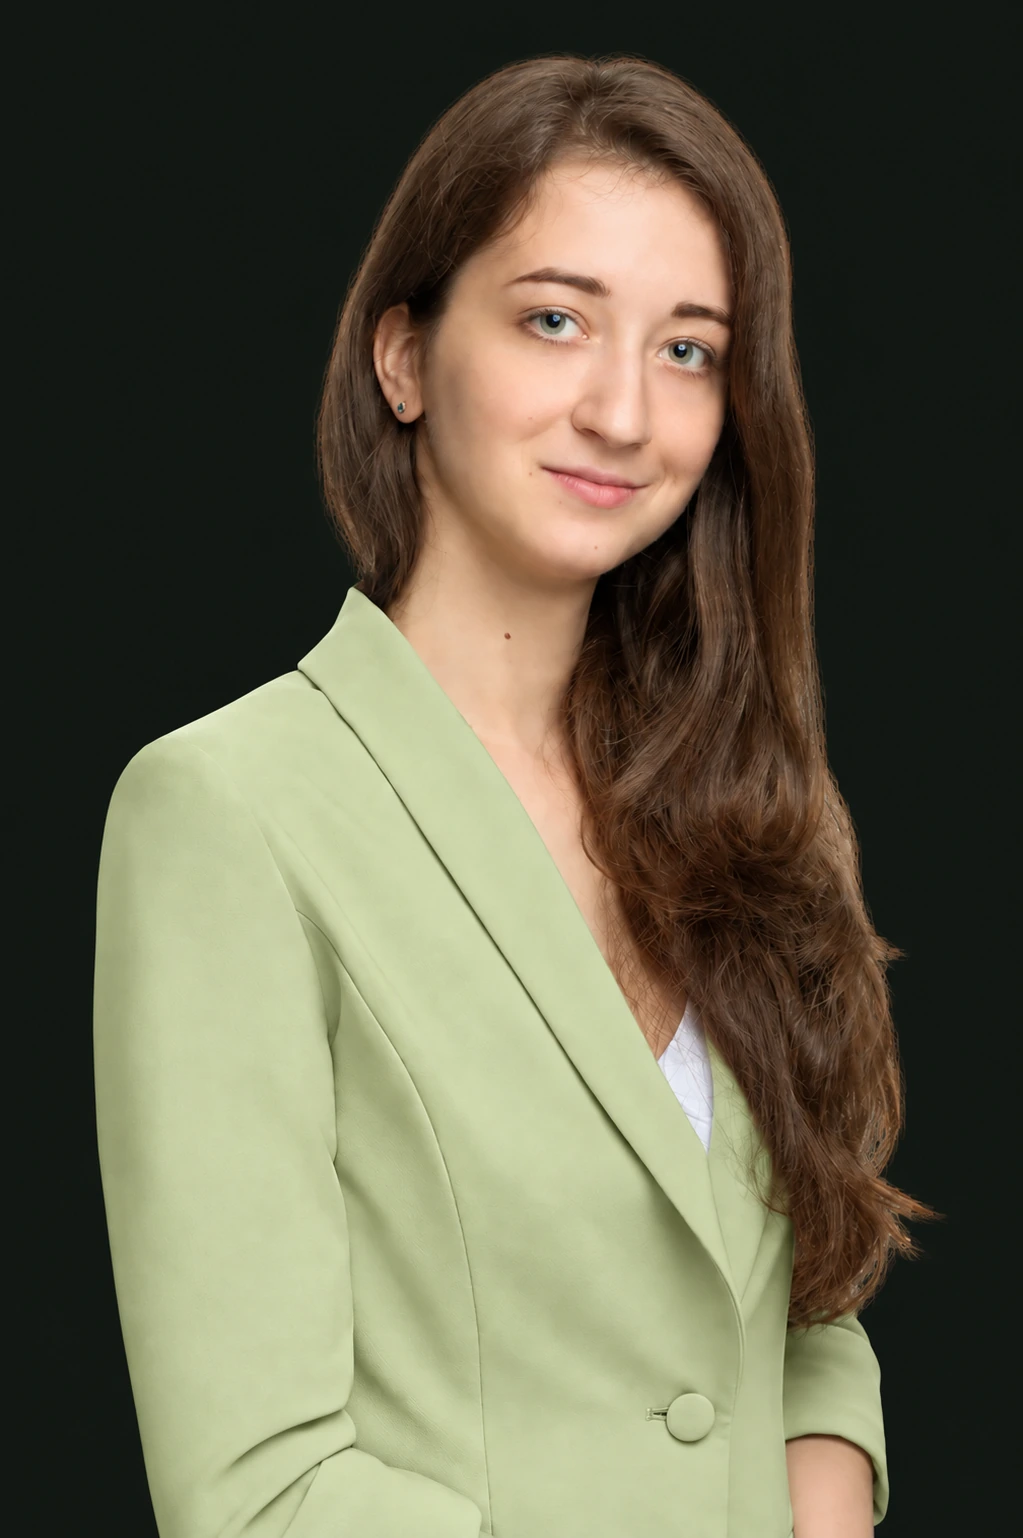
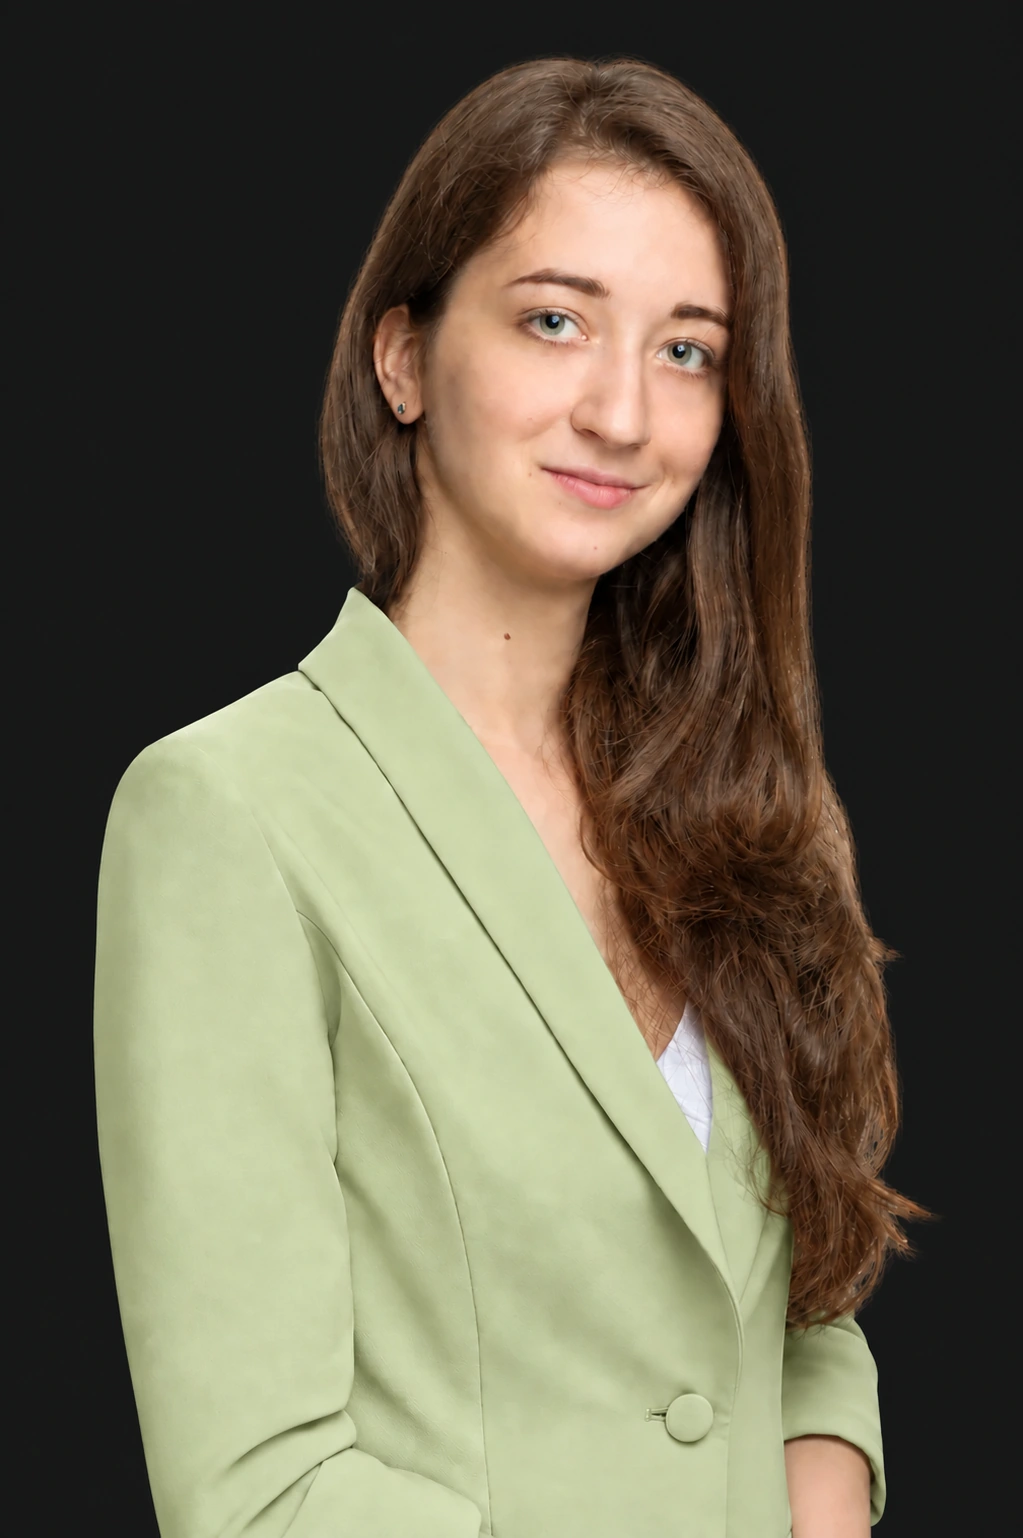
Fix portrait background, gallery controls and contact alignment

diff --git a/assets/styles.css b/assets/styles.css
@@ -226,5 +226,26 @@ dialog::backdrop{background:var(--surface)}body.modal-open{overflow:hidden}
   .contact-links{margin:0}
   .contact-links a{min-height:0;line-height:1.6}
 }
+/* Final component invariants: no independent breakpoint overrides below these. */
+.portrait-wrap::before{transform:scale(.85);transform-origin:center}
+.portrait{object-fit:contain;mix-blend-mode:lighten;mask-image:linear-gradient(to right,transparent,black 10%,black 90%,transparent),linear-gradient(to bottom,transparent,black 5%,black 85%,transparent);mask-composite:intersect}
+.portrait-wrap{aspect-ratio:1023/1538;max-width:360px}
+.tabs,.thumbs{scrollbar-width:none;-ms-overflow-style:none}
+.tabs::-webkit-scrollbar,.thumbs::-webkit-scrollbar{display:none}
+.stage .round{width:44px;height:44px;padding:0;aspect-ratio:1;border-radius:50%;border:1px solid var(--accent)}
+.contact-grid{grid-template-columns:minmax(0,1fr) minmax(0,3fr) minmax(0,1fr)}
+.contact-note{justify-self:start}.contact-note-end{justify-self:end;text-align:right;border-left:0;border-right:1px solid var(--line);padding-left:0;padding-right:20px}
+dialog[open]{display:grid;grid-template-rows:76px minmax(0,1fr) 82px;inset:0;margin:0;width:100%;height:100dvh;overflow:hidden}
+.modal-image{height:100%;min-height:0;width:100%;object-fit:contain;align-self:stretch}.modal-top,.modal-controls{height:auto}
+@media(max-width:760px){
+  .contact-grid{display:flex;flex-direction:column;align-items:stretch;padding-block:32px;gap:32px}
+  .contact-note{align-self:center;line-height:1;margin:0}.contact-note-end{display:none}
+  .contact-main,.contact-main>div:first-child{display:contents}.contact h2{margin:0;line-height:1.2}
+  .contact-links{line-height:1;align-items:center}.contact-links a{line-height:1;margin:0;min-height:0;padding:0;border:0}
+}
+@media(max-width:600px){
+  .stage{grid-template-columns:44px minmax(0,1fr) 44px;gap:6px}
+  .portrait-wrap{max-width:300px}.portrait-wrap::before{inset:0;transform:scale(.85)}
+}
 @media(prefers-reduced-motion:reduce){html{scroll-behavior:auto}*,*::before,*::after{animation:none!important;transition:none!important}.scroll-reveal{opacity:1;transform:none}}
 @media print{.scroll-reveal{opacity:1;transform:none}}

diff --git a/assets/app.js b/assets/app.js
@@ -42,6 +42,8 @@ function fitGallery(){
   section.style.setProperty('--gallery-width',(height*16/9+sideSpace)+'px')
 }
 window.addEventListener('resize',fitGallery);
+window.addEventListener('load',fitGallery);
+document.fonts.ready.then(fitGallery);
 document.addEventListener('visibilitychange',resetAuto);
 function swapImage(img,src){
   if(img.getAttribute('src')===src)return;
@@ -226,7 +228,7 @@ async function loadFolders(){
     if(!Array.isArray(data?.projects))throw new Error('Missing generated portfolio data');
     const list=data.projects;
     projects.splice(0,projects.length,{
-      title:'Все работы',kind:'Проекты и отдельные слайды',slides:list.flatMap(p=>p.slides)
+      title:'Все работы',kind:'',slides:list.flatMap(p=>p.slides)
     }
     ,...list);
     project=0;

diff --git a/AGENTS.md b/AGENTS.md
@@ -29,3 +29,7 @@
 - Логотипы мероприятий хранятся в assets/events/, источники — в ASSET-SOURCES.md. Не представлять участие в подготовке презентаций как партнёрство или победу в премии.
 
 - Перед выбором навыков читать SKILLS.md: применять подходящий навык по типу задачи, сверяя его наличие с актуальным каталогом сессии. Не запускать весь список автоматически.
+
+- Проверки вёрстки подтверждать измерениями в браузере, а не только CSS: мобильные стрелки имеют равные ширину и высоту; боковые подписи контактов симметричны границам контейнера; интервалы от разделителя до первой строки, между строками и до нижнего разделителя измеряются по DOM. Для портрета отдельно проверять совпадение фона изображения и страницы на десктопе и мобильном.
+- Галерею проверять после загрузки шрифтов/изображений, переключения вкладки и изменения окна; отдельно проверять dialog в открытом состоянии, размеры картинки и доступность управляющих кнопок. Скроллбар вкладок и миниатюр скрыт, прокрутка сохранена.
+- Исправлять компонент целиком: не накапливать противоречащие друг другу правила одного свойства по медиазапросам. В отчёте отличать автоматические проверки геометрии от визуального осмотра скриншотов.

diff --git a/SKILLS.md b/SKILLS.md
@@ -47,3 +47,5 @@
 ## Проверка результата
 
 После каждой итерации вёрстки выполнять проверку всей страницы согласно AGENTS.md: десктоп и мобильный экран, отступы, переносы, границы колонок, отсутствие переполнения. Для изменений карусели проверять стрелки, миниатюры, просмотр, клавиатуру, секундные анимации, паузу автопрокрутки в просмотре и reduced motion. Навык не отменяет эти проектные проверки и не даёт разрешение на публикацию или отправку сообщений.
+
+Для повторяющихся замечаний об отступах использовать impeccable/reference/layout.md и craft-floor.md: сначала определить контейнеры и общие интервалы, затем проверить фактические bounding boxes. В одном прогоне собирать всю страницу, hero, галерею и открытый dialog на десктопе и мобильном. Автотест «нет переполнения» не подтверждает симметрию, одинаковые интервалы или отсутствие рамки растрового изображения — эти свойства проверять отдельно. Достаточно исходного комплексного прогона и одного подтверждающего после исправлений; дальнейшие прогоны только для конкретного оставшегося дефекта.

diff --git a/ASSET-SOURCES.md b/ASSET-SOURCES.md
@@ -14,3 +14,5 @@
 | property-awards-mark.png | https://propertyawards.com/ | https://propertyawards.com/images/logo.png |
 
 Фото assets/portrait-pistachio.webp создано встроенным imagegen на основе личного фото: пиджак перекрашен в мягкий фисташковый, фон приведён к тёмному оформлению страницы. Оригинал и полный сгенерированный PNG — в игнорируемой папке local-only/source-photos/. В WebP выполнена только оптимизация формата.
+
+Обновление портрета: заменён встроенный зелёный фон на нейтральный графитовый через imagegen. Предыдущая версия: local-only/source-photos/portrait-green-background.webp; новый исходник: local-only/source-photos/portrait-graphite-generated.png. Мягкое сопряжение краёв и свечение задаются в CSS.
